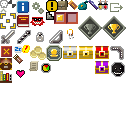
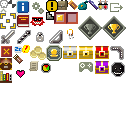
proper sprite and positioning for play button

Changed region(s): [[0.5938, 0.4688, 0.75, 0.5625]]

diff --git a/PixelDungeon/src/main/java/com/watabou/pixeldungeon/ui/Icons.java b/PixelDungeon/src/main/java/com/watabou/pixeldungeon/ui/Icons.java
@@ -61,7 +61,8 @@ public enum Icons {
 	MIND_CONTROL,
 	GRAPHS,
 	NECROMANCER,
-	CHEST_ROYAL;
+	CHEST_ROYAL,
+	PLAY_GAMES;
 
 	
 	public Image get() {
@@ -187,6 +188,9 @@ public enum Icons {
 			break;
 		case CHEST_ROYAL:
 			icon.frame( icon.texture.uvRect( 95, 61, 109, 74 ) );
+			break;
+		case PLAY_GAMES:
+			icon.frame( icon.texture.uvRect( 79, 61, 93, 74 ) );
 			break;
 		}
 		return icon;

diff --git a/PixelDungeon/src/main/java/com/watabou/pixeldungeon/scenes/TitleScene.java b/PixelDungeon/src/main/java/com/watabou/pixeldungeon/scenes/TitleScene.java
@@ -186,6 +186,7 @@ public class TitleScene extends PixelScene {
 			PremiumPrefsButton btnPPrefs = new PremiumPrefsButton();
 			btnPPrefs.setPos(btnPrefs.right() + 2, 0);
 			add(btnPPrefs);
+			btnPlayGames.setPos(btnPPrefs.right() + 2, 0);
 		}
 
 		ExitButton btnExit = new ExitButton();

diff --git a/PixelDungeon/src/main/java/com/watabou/pixeldungeon/ui/PlayGamesButton.java b/PixelDungeon/src/main/java/com/watabou/pixeldungeon/ui/PlayGamesButton.java
@@ -30,7 +30,7 @@ public class PlayGamesButton extends Button {
 	protected void createChildren() {
 		super.createChildren();
 		
-		image = Icons.get(Icons.TARGET);
+		image = Icons.get(Icons.PLAY_GAMES);
 
 		updateStatus();
 
